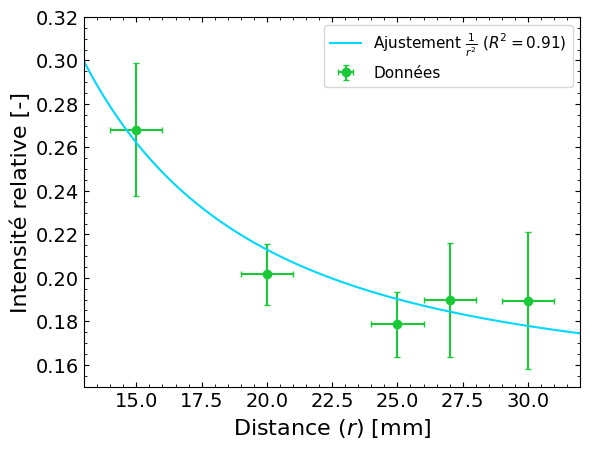
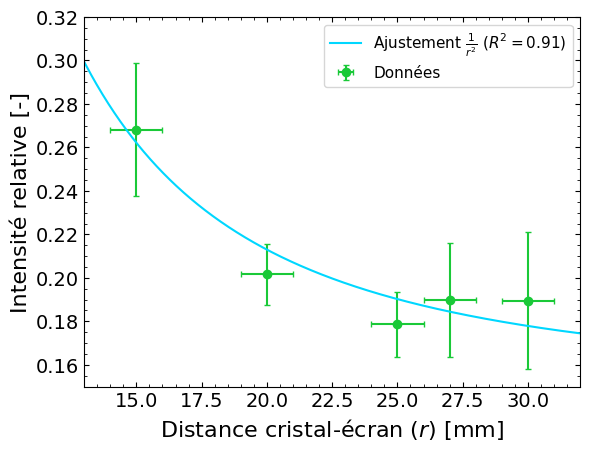
distances

diff --git a/analyse_distance.py b/analyse_distance.py
@@ -146,7 +146,7 @@ def draw_points(image, name, contours):
     os.makedirs(out_dir, exist_ok=True)
     cv2.imwrite(os.path.join(out_dir, name + ".png"), colored_spectrum)
 
-def intensity(image, name, contours):
+def intensity(image, contours):
     image = image.astype(np.uint8)
 
     mean_contour = []
@@ -168,6 +168,37 @@ def intensity(image, name, contours):
         mean_contour.append(mean_intensity / area)
 
     return np.mean(mean_contour), np.std(mean_contour)
+
+def distance2center(image, contours):
+    resolution = 49.5E-6
+    center_x = len(image[0]) // 2
+    center_y = len(image) // 2
+
+    xQs = []
+    yQs = []
+
+    for contour in contours:
+        M = cv2.moments(contour)
+
+        # Calculate the center of the contour
+        cx = int(M['m10'] / M['m00'])
+        cy = int(M['m01'] / M['m00'])
+        
+        xQ = np.abs(cx - center_x) * resolution
+        yQ = np.abs(cy - center_y) * resolution
+
+        xQs.append(xQ)
+        yQs.append(yQ)
+
+    xQ_mean = np.mean(xQs)
+    xQ_err = np.std(xQs)
+    yQ_mean = np.mean(yQs)
+    yQ_err = np.std(xQs)
+
+    distance = np.sqrt(xQ_mean**2 + yQ_mean**2) * 1000
+    distance_err = np.sqrt((xQ_mean / np.sqrt(xQ_mean**2 + yQ_mean**2) * xQ_err)**2 + (yQ_mean / np.sqrt(xQ_mean**2 + yQ_mean**2) * yQ_err)**2) * 1000
+
+    return distance, distance_err
 
 def model_r2(x, fct, intercept):
     return fct / (x ** 2) + intercept
@@ -194,7 +225,7 @@ def plot_intensity(dict_intensity):
 
     plt.legend(fontsize=11)
     plt.ylabel("Intensité relative [-]", fontsize=16)
-    plt.xlabel(f"Distance ($r$) [mm]", fontsize=16)
+    plt.xlabel(f"Distance cristal-écran ($r$) [mm]", fontsize=16)
     plt.minorticks_on()
     plt.xlim(13, 32)
     plt.ylim(0.15, 0.32)
@@ -204,6 +235,40 @@ def plot_intensity(dict_intensity):
     os.makedirs(out_dir, exist_ok=True)
 
     plt.savefig(os.path.join(out_dir, "r2.png"), transparent=True, bbox_inches="tight")
+    plt.close()
+
+def plot_distance(dict_distance):
+    x_values = np.array(list(dict_distance.keys()), dtype=float)
+    x_err = 1.
+    y_values = np.array([value[0] for value in dict_distance.values()])
+    y_err = np.array([value[1] for value in dict_distance.values()])
+
+    #popt, _ = curve_fit(model_r2, x_values, y_values)
+
+    # Calculate R^2 coefficient
+    #residuals = y_values - model_r2(x_values, *popt)
+    #TSS = np.sum((y_values - np.mean(y_values)) ** 2)
+    #RSS = np.sum(residuals ** 2)
+    #R_squared = 1 - (RSS / TSS)
+
+    slope, intercept, r_value, _, _ = linregress(x_values, y_values)
+    x_fit = np.linspace(10, 35, 1000)
+
+    plt.errorbar(x_values, y_values, xerr=x_err, yerr=y_err, color=palette[4], fmt="o", capsize=2, label="Données")
+    plt.plot(x_fit, slope * x_fit + intercept, color=palette[6], linestyle="-", label=f"Régression linéaire ($R^2={r_value**2:.2f}$)")
+
+    plt.legend(fontsize=11)
+    plt.ylabel("Distance point-centre de l'image [mm]", fontsize=16)
+    plt.xlabel(f"Distance cristal-écran [mm]", fontsize=16)
+    plt.minorticks_on()
+    plt.xlim(13, 32)
+    plt.ylim(8, 27)
+    plt.tick_params(axis="both", which="both", direction="in", top=True, right=True, labelsize=14)
+
+    out_dir = os.path.join("output", "11_distance", "05_distance")
+    os.makedirs(out_dir, exist_ok=True)
+
+    plt.savefig(os.path.join(out_dir, "distance.png"), transparent=True, bbox_inches="tight")
     plt.close()
 
 if __name__ == "__main__":
@@ -243,12 +308,20 @@ if __name__ == "__main__":
     #draw_points(img27, name27, contours_27)
     #draw_points(img30, name30, contours_30)
 
-    intensity_15 = intensity(img15, name15, contours_15)
-    intensity_20 = intensity(img20, name20, contours_20)
-    intensity_25 = intensity(img25, name25, contours_25)
-    intensity_27 = intensity(img27, name27, contours_27)
-    intensity_30 = intensity(img30, name30, contours_30)
+    intensity_15 = intensity(img15, contours_15)
+    intensity_20 = intensity(img20, contours_20)
+    intensity_25 = intensity(img25, contours_25)
+    intensity_27 = intensity(img27, contours_27)
+    intensity_30 = intensity(img30, contours_30)
 
     dict_intensity = {15:intensity_15, 20:intensity_20, 25:intensity_25, 27:intensity_27, 30:intensity_30}
-
     #plot_intensity(dict_intensity)
+
+    distance15 = distance2center(img15, contours_15)
+    distance20 = distance2center(img20, contours_20)
+    distance25 = distance2center(img25, contours_25)
+    distance27 = distance2center(img27, contours_27)
+    distance30 = distance2center(img30, contours_30)
+
+    dict_distance = {15:distance15, 20:distance20, 25:distance25, 27:distance27, 30:distance30}
+    #plot_distance(dict_distance)
